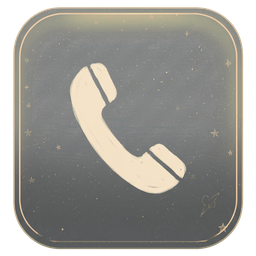
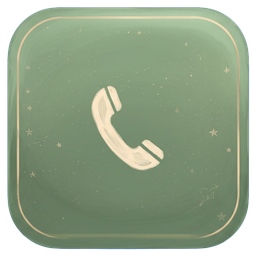
Llamadas pasa a verde salvia, ya no se confunde con archivos
Compartian tono (42 y 42) y solo se separaban por saturacion. Ahora
llamadas esta en H 103 con S 21, contra el H 60 y S 8.8 de archivos: 43
grados de tono y el doble largo de color.

Tres intentos anteriores cayeron todos en el mismo oliva que archivos, y
la culpa era del prompt: pedia el verde "tan apagado que casi se lea como
gris". A saturacion 8 todos los tonos se ven igual de grises. Red, que
esta aprobada y encaja, esta a S 52; la familia aguanta mucho mas color
del que le venia pidiendo.

El croma pasa a azul para esta pieza. El recorte borra el fondo midiendo
cuanto tira a verde cada pixel, asi que una tarjeta verde sobre croma
verde se descarta a si misma: medido, sale con el 0% del cuerpo opaco y
el verde aplanado a gris. quita_fondo ya distingue los dos fondos sola.

LEEME recoge las tarjetas de interfaz, que no estaban, y avisa de las dos
trampas: el croma verde bajo una pieza verde, y el fondo con reflejo o
degradado, que no se puede quitar y deja la pieza medio transparente.

Claude-Session: https://claude.ai/code/session_01P1J9MJnJUYY8y1kfFtEyNY

diff --git a/art-crudo/LEEME.md b/art-crudo/LEEME.md
@@ -22,7 +22,28 @@ Luego:
 
     python3 tools/procesa_arte.py
 
-## 2. Videollamadas → `assets/characters/<personaje>/`
+## 2. Tarjetas de interfaz → `art-crudo/ui-<nombre>.png`
+
+Igual que los gestos, pero las procesa `tools/procesa_ui.py`:
+
+    ui-mensajes.png   ui-contactos.png  ui-album.png
+    ui-red.png        ui-notas.png      ui-archivos.png
+    ui-llamadas.png   ui-finales.png    ui-ajustes.png
+
+**Ojo con el color del croma.** El recorte borra el fondo midiendo cuánto
+tira a verde cada píxel, que es lo que le permite quitar el halo oscuro
+del borde y salvar los mechones de pelo. Con una tarjeta verde sobre
+croma verde se come el icono: probado, sale con el 0% del cuerpo opaco y
+el verde aplanado a gris.
+
+Así que **si la pieza es verde, pídela sobre croma AZUL** (`#0047FF`).
+El proceso detecta solo cuál de los dos es y cambia de método; con azul
+mide distancia al color del fondo. Llamadas es la primera que va así.
+
+Y que el fondo sea **plano**: un reflejo o un degradado bajo la tarjeta no
+se puede quitar, y la pieza sale medio transparente.
+
+## 3. Videollamadas → `assets/characters/<personaje>/`
 
 Estas **no se procesan**: no llevan croma, el fondo oscuro forma parte de
 la escena. Van directas, con este nombre exacto:
